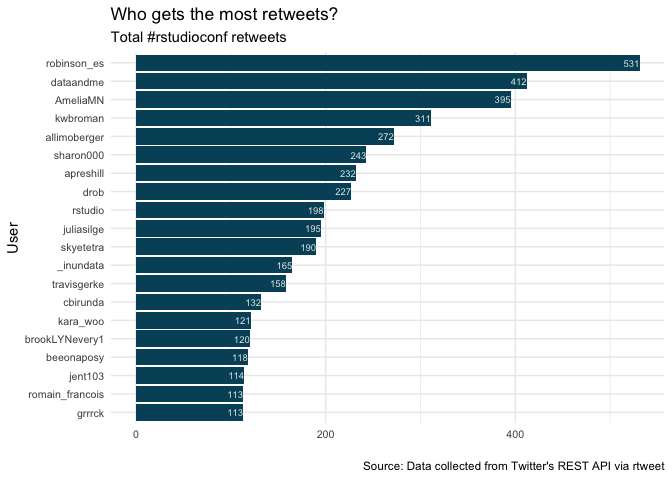
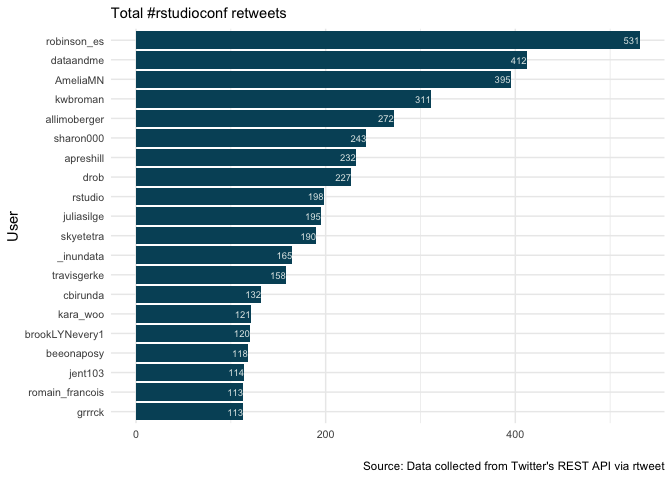
now with clowplot and error bars

Changed region(s): [[0.0312, 0.0, 0.9688, 0.875], [0.0, 0.4375, 0.0312, 0.5312]]

diff --git a/dataviz/rtweets_rstudioconf.md b/dataviz/rtweets_rstudioconf.md
@@ -1,6 +1,6 @@
 ### Basic summary
 
-There were a total of **3666** tweets with the \#rstudioconf hashtag.
+There were a total of **3664** tweets with the \#rstudioconf hashtag.
 These tweets were authored by **696** different particpants.
 
 ![](rtweets_rstudioconf_figs/topusers-1.png)
@@ -9,13 +9,9 @@ These tweets were authored by **696** different particpants.
 
 ### Which tweeters had the highest impact?
 
-![](rtweets_rstudioconf_figs/totalretweet-1.png)
+![](rtweets_rstudioconf_figs/retweet-1.png)
 
-![](rtweets_rstudioconf_figs/meanretweet-1.png)
-
-![](rtweets_rstudioconf_figs/mostfav-1.png)
-
-![](rtweets_rstudioconf_figs/meanfav-1.png)
+![](rtweets_rstudioconf_figs/favorites-1.png)
 
 ### Acknowledgments
 
